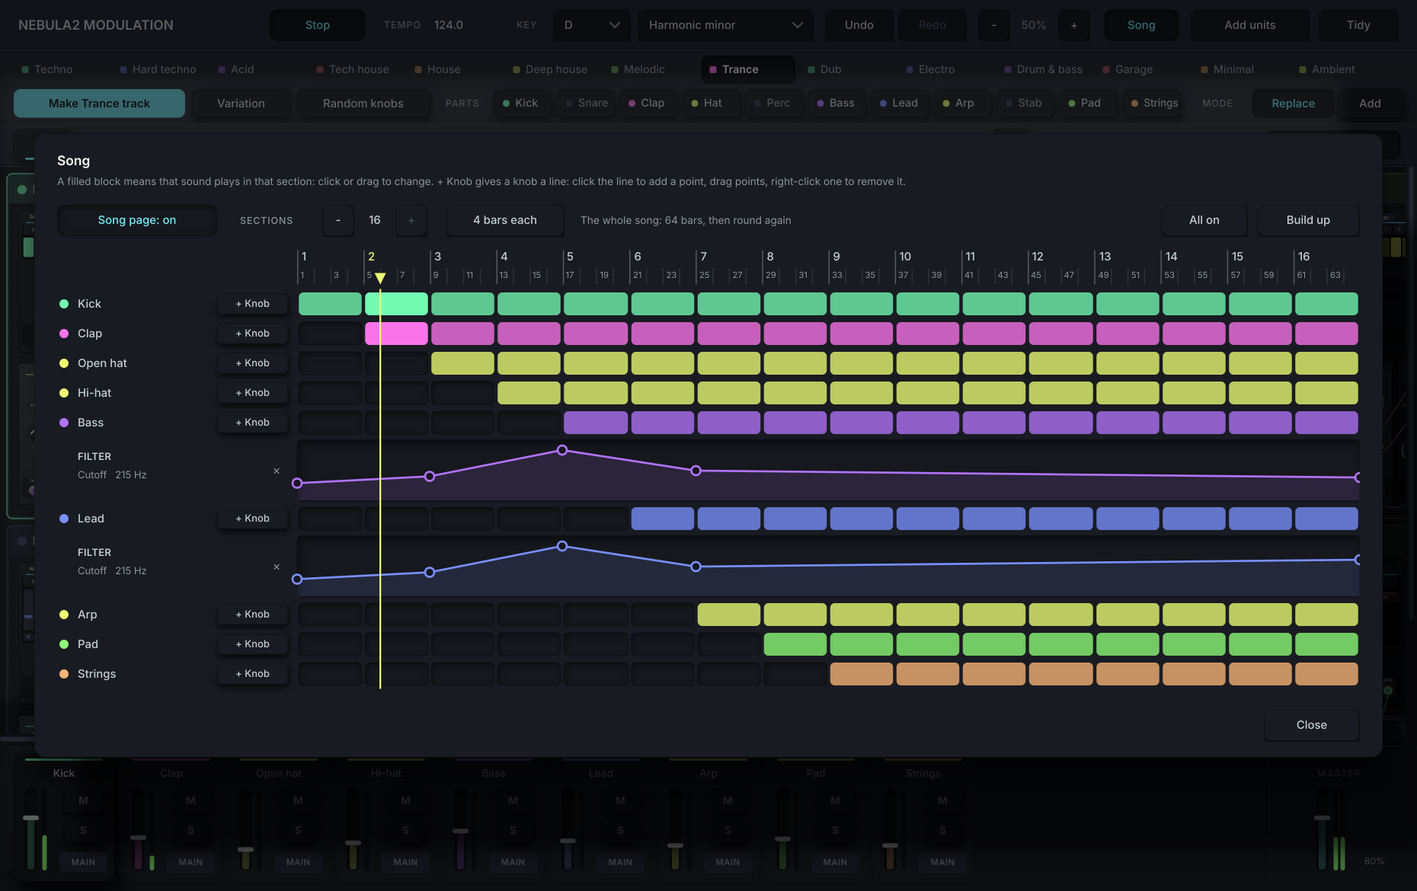
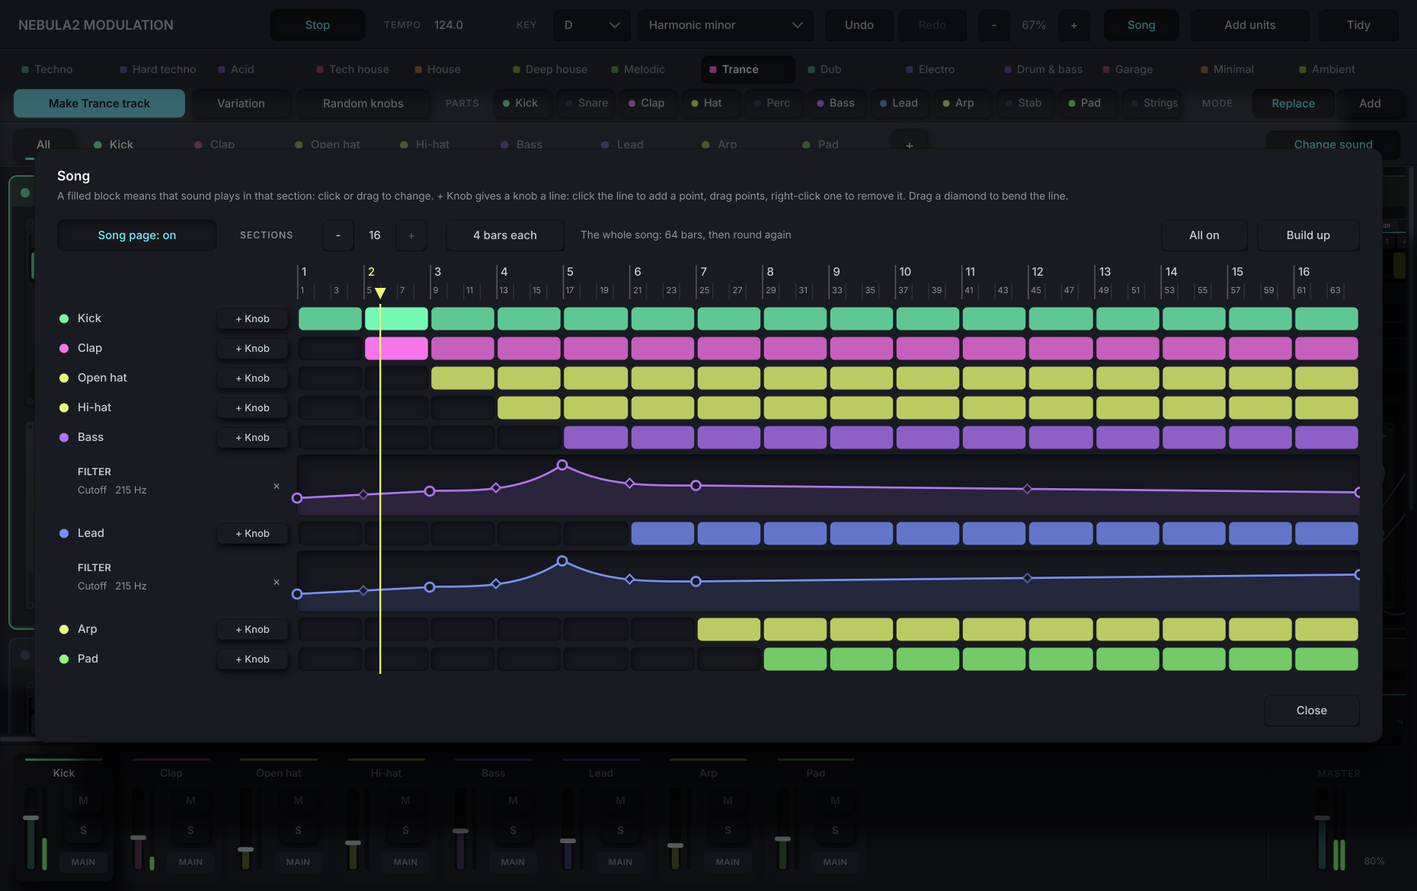
Timeline knob lines can be bent: drag the diamond in the middle of a stretch
Claude-Session: https://claude.ai/code/session_01LCqu45gMnL2gNytcjbEKwn

diff --git a/Source/PluginEditor.cpp b/Source/PluginEditor.cpp
@@ -2754,6 +2754,38 @@ int SongPanel::pointNear (int tab, int lane, juce::Point<int> p) const
     }
     return best;
 }
+// Half way along a stretch, on the line itself: the handle that bends it. None where the stretch is too short
+// to grab or is flat (a flat line has nothing to bend).
+juce::Point<int> SongPanel::bendHandle (int tab, int lane, int k) const
+{
+    auto& a = *proc.rack.boards[(size_t) tab]->autos[(size_t) lane];
+    if (k < 0 || k + 1 >= a.count.load()) return { -1000, -1000 };
+    const float b0 = a.bar[(size_t) k].load(), b1 = a.bar[(size_t) (k + 1)].load(), v0 = a.val[(size_t) k].load(), v1 = a.val[(size_t) (k + 1)].load();
+    if ((b1 - b0) * barW() < 28.0f || std::abs (v1 - v0) < 0.02f) return { -1000, -1000 };
+    return pointAt (tab, lane, 0.5f * (b0 + b1), v0 + (v1 - v0) * AutoLane::shape (0.5f, a.curve[(size_t) k].load()));
+}
+int SongPanel::bendNear (int tab, int lane, juce::Point<int> p) const
+{
+    if (tab < 0 || tab >= (int) proc.rack.boards.size() || lane < 0 || lane >= (int) proc.rack.boards[(size_t) tab]->autos.size()) return -1;
+    const int n = proc.rack.boards[(size_t) tab]->autos[(size_t) lane]->count.load();
+    for (int k = 0; k + 1 < n; ++k) if (bendHandle (tab, lane, k).getDistanceFrom (p) <= 8) return k;
+    return -1;
+}
+// Double-click a bend handle: that stretch goes straight again
+void SongPanel::mouseDoubleClick (const juce::MouseEvent& e)
+{
+    for (int t = 0; t < (int) proc.rack.boards.size(); ++t)
+        for (int l = 0; l < (int) proc.rack.boards[(size_t) t]->autos.size(); ++l)
+        {
+            const int k = bendNear (t, l, e.getPosition());
+            if (k < 0) continue;
+            proc.history.before (*proc.rack.boards[(size_t) t]);
+            proc.rack.boards[(size_t) t]->autos[(size_t) l]->bend (k, 0.0f);
+            proc.history.discardIfUnchanged();
+            repaint();
+            return;
+        }
+}
 bool SongPanel::hit (juce::Point<int> p, int& tab, int& section) const
 {
     if (! rows().contains (p)) return false;
@@ -2847,6 +2879,8 @@ void SongPanel::mouseDown (const juce::MouseEvent& e)
                 repaint();
                 return;
             }
+            // the handle in the middle of a stretch bends it
+            if (point < 0) { const int k = bendNear (t, l, p); if (k >= 0) { drag = { 3, t, l, k }; repaint(); return; } }
             if (point < 0)
             {
                 // a click on the line's row puts a new point there, already in the hand
@@ -2873,6 +2907,20 @@ void SongPanel::mouseDrag (const juce::MouseEvent& e)
         int t = 0, s = 0;
         if (hit (e.getPosition(), t, s)) setCell (t, s, paintTo);
     }
+    if (drag.kind == 3 && drag.tab < (int) proc.rack.boards.size() && drag.lane < (int) proc.rack.boards[(size_t) drag.tab]->autos.size())
+    {
+        // Bending: the middle of the stretch follows the mouse up and down
+        auto& a = *proc.rack.boards[(size_t) drag.tab]->autos[(size_t) drag.lane];
+        if (drag.point + 1 < a.count.load())
+        {
+            const auto area = laneArea (drag.tab, drag.lane);
+            const float v0 = a.val[(size_t) drag.point].load(), v1 = a.val[(size_t) (drag.point + 1)].load();
+            const float value = (float) (area.getBottom() - 6 - e.y) / (float) (laneH - 12);
+            if (std::abs (v1 - v0) > 0.0001f) a.bend (drag.point, AutoLane::curveFor ((value - v0) / (v1 - v0)));
+        }
+        repaint();
+        return;
+    }
     if (drag.kind != 2 || drag.tab >= (int) proc.rack.boards.size() || drag.lane >= (int) proc.rack.boards[(size_t) drag.tab]->autos.size()) return;
     // Dragging a point: sideways moves it through the song (to the nearest quarter bar; Shift for anywhere),
     // up and down moves the knob
@@ -2884,7 +2932,7 @@ void SongPanel::mouseDrag (const juce::MouseEvent& e)
 }
 void SongPanel::mouseUp (const juce::MouseEvent&)
 {
-    if (drag.kind == 2) proc.history.discardIfUnchanged();
+    if (drag.kind == 2 || drag.kind == 3) proc.history.discardIfUnchanged();
     drag = {};
 }
 void SongPanel::mouseMove (const juce::MouseEvent& e) { if (rows().contains (e.getPosition())) repaint (rows()); }
@@ -2912,8 +2960,8 @@ void SongPanel::paint (juce::Graphics& g)
     g.drawText ("Song", c.getX() + 20, c.getY() + 14, 300, 20, juce::Justification::centredLeft, false);
     g.setFont (helpFont());
     g.setColour (n7);
-    g.drawText (on ? "A filled block means that sound plays in that section: click or drag to change. + Knob gives a knob a line: click the line to add a point, drag points, right-click one to remove it."
-                   : "Sections are off: every sound plays all the time. + Knob gives a knob a line through the song: click the line to add a point, drag points, right-click one to remove it.",
+    g.drawText (on ? "A filled block means that sound plays in that section: click or drag to change. + Knob gives a knob a line: click the line to add a point, drag points, right-click one to remove it. Drag a diamond to bend the line."
+                   : "Sections are off: every sound plays all the time. + Knob gives a knob a line through the song: click the line to add a point, drag points, right-click one to remove it. Drag a diamond to bend the line.",
                 c.getX() + 20, c.getY() + 34, c.getWidth() - 40, 16, juce::Justification::centredLeft, true);
     caption (g, "Sections", { c.getX() + 180, c.getY() + 62, 68, 28 });
     g.setFont (controlFont());
@@ -3008,7 +3056,22 @@ void SongPanel::paint (juce::Graphics& g)
                 if (n <= 0) continue;
                 juce::Path line;
                 line.startNewSubPath ((float) area.getX(), (float) pointAt (t, l, 0.0f, a.val[0].load()).y);
-                for (int k = 0; k < n; ++k) line.lineTo (pointAt (t, l, a.bar[(size_t) k].load(), a.val[(size_t) k].load()).toFloat());
+                for (int k = 0; k < n; ++k)
+                {
+                    // a bent stretch is drawn as the curve the knob will really follow
+                    if (k > 0 && a.curve[(size_t) (k - 1)].load() != 0.0f)
+                    {
+                        const float b0 = a.bar[(size_t) (k - 1)].load(), b1 = a.bar[(size_t) k].load(), v0 = a.val[(size_t) (k - 1)].load(), v1 = a.val[(size_t) k].load(), cv = a.curve[(size_t) (k - 1)].load();
+                        const int steps = juce::jlimit (8, 96, juce::roundToInt ((b1 - b0) * barW() / 2.0f));
+                        // (worked out to a fraction of a pixel, so the curve is smooth rather than stepped)
+                        for (int s = 1; s < steps; ++s)
+                        {
+                            const float u = (float) s / (float) steps;
+                            line.lineTo ((float) area.getX() + (b0 + (b1 - b0) * u) * barW(), (float) area.getBottom() - 6.0f - juce::jlimit (0.0f, 1.0f, v0 + (v1 - v0) * AutoLane::shape (u, cv)) * (float) (laneH - 12));
+                        }
+                    }
+                    line.lineTo (pointAt (t, l, a.bar[(size_t) k].load(), a.val[(size_t) k].load()).toFloat());
+                }
                 line.lineTo ((float) area.getRight(), (float) pointAt (t, l, 0.0f, a.val[(size_t) (n - 1)].load()).y);
                 juce::Path fill (line);
                 fill.lineTo ((float) area.getRight(), (float) area.getBottom() - 3.0f); fill.lineTo ((float) area.getX(), (float) area.getBottom() - 3.0f); fill.closeSubPath();
@@ -3017,6 +3080,21 @@ void SongPanel::paint (juce::Graphics& g)
                 g.setColour (col);
                 g.strokePath (line, juce::PathStrokeType (1.8f, juce::PathStrokeType::curved, juce::PathStrokeType::rounded));
                 const int closest = area.expanded (4, 0).contains (mouse) ? pointNear (t, l, mouse) : -1;
+                // bend handles: a small diamond half way along each stretch
+                {
+                    const int over = closest < 0 && area.expanded (4, 0).contains (mouse) ? bendNear (t, l, mouse) : -1;
+                    for (int k = 0; k + 1 < n; ++k)
+                    {
+                        const auto h = bendHandle (t, l, k).toFloat();
+                        if (h.x < -500.0f) continue;
+                        const bool hot = k == over || (drag.kind == 3 && drag.tab == t && drag.lane == l && drag.point == k);
+                        const float r = hot ? 5.5f : 4.0f;
+                        juce::Path d; d.startNewSubPath (h.x, h.y - r); d.lineTo (h.x + r, h.y); d.lineTo (h.x, h.y + r); d.lineTo (h.x - r, h.y); d.closeSubPath();
+                        g.setColour (sunkenLo); g.fillPath (d);
+                        g.setColour (hot ? juce::Colours::white : col.withAlpha (a.curve[(size_t) k].load() != 0.0f ? 1.0f : 0.55f));
+                        g.strokePath (d, juce::PathStrokeType (1.4f));
+                    }
+                }
                 for (int k = 0; k < n; ++k)
                 {
                     const auto pt = pointAt (t, l, a.bar[(size_t) k].load(), a.val[(size_t) k].load()).toFloat();

diff --git a/Source/Engine.h b/Source/Engine.h
@@ -277,7 +277,7 @@ struct Module
 struct Cable { int src, srcPort, dst, dstPort; };
 
 // A knob's movement drawn on the timeline: points of (where in the song, in bars from the start; knob position
-// 0..1) joined by straight lines. Before the first point and after the last the knob holds that point's position.
+// 0..1) joined by lines. Each stretch between two points is straight unless it has been bent (see curve). Before the first point and after the last the knob holds that point's position.
 // The points are plain numbers the audio thread can read at any moment, so dragging one never makes audio wait.
 constexpr int kAutoPoints = 64;
 struct AutoLane
@@ -285,6 +285,23 @@ struct AutoLane
     int uid = 0, param = 0;                       // which unit on the board, and which of its knobs
     std::atomic<int> count { 0 };
     std::array<std::atomic<float>, kAutoPoints> bar {}, val {};
+    // How the stretch that starts at each point is bent, -1..1: 0 is straight, above 0 moves most of the way early
+    // then eases in, below 0 holds back then moves late. Old projects have none, so they play exactly as before.
+    std::array<std::atomic<float>, kAutoPoints> curve {};
+    static float shape (float t, float c)
+    {
+        if (c == 0.0f) return t;
+        const float k = 1.0f + 4.0f * std::min (1.0f, std::abs (c));
+        return c > 0.0f ? 1.0f - std::pow (1.0f - t, k) : std::pow (t, k);
+    }
+    // The bend that puts the middle of a stretch this far (0..1) from its first point's level to its second's
+    static float curveFor (float half)
+    {
+        const float f = std::min (0.96f, std::max (0.04f, half));
+        const float c = f >= 0.5f ? (std::log2 (1.0f / (1.0f - f)) - 1.0f) / 4.0f : -(std::log2 (1.0f / f) - 1.0f) / 4.0f;
+        return std::abs (c) < 0.02f ? 0.0f : std::min (1.0f, std::max (-1.0f, c));
+    }
+    void bend (int i, float c) { if (i >= 0 && i < count.load()) curve[(size_t) i].store (std::min (1.0f, std::max (-1.0f, c))); }
     float at (double barPos) const
     {
         const int n = std::min (kAutoPoints, count.load (std::memory_order_relaxed));
@@ -294,7 +311,7 @@ struct AutoLane
         for (int i = 1; i < n; ++i)
         {
             const float b1 = bar[(size_t) i].load (std::memory_order_relaxed), v1 = val[(size_t) i].load (std::memory_order_relaxed);
-            if (barPos < b1) return b1 > b0 ? v0 + (v1 - v0) * (float) ((barPos - b0) / (b1 - b0)) : v1;
+            if (barPos < b1) return b1 > b0 ? v0 + (v1 - v0) * shape ((float) ((barPos - b0) / (b1 - b0)), curve[(size_t) (i - 1)].load (std::memory_order_relaxed)) : v1;
             b0 = b1; v0 = v1;
         }
         return v0;
@@ -305,8 +322,9 @@ struct AutoLane
         const int n = count.load();
         if (n >= kAutoPoints) return -1;
         int i = n;
-        while (i > 0 && bar[(size_t) (i - 1)].load() > atBar) { bar[(size_t) i].store (bar[(size_t) (i - 1)].load()); val[(size_t) i].store (val[(size_t) (i - 1)].load()); --i; }
+        while (i > 0 && bar[(size_t) (i - 1)].load() > atBar) { bar[(size_t) i].store (bar[(size_t) (i - 1)].load()); val[(size_t) i].store (val[(size_t) (i - 1)].load()); curve[(size_t) i].store (curve[(size_t) (i - 1)].load()); --i; }
         bar[(size_t) i].store (atBar); val[(size_t) i].store (std::min (1.0f, std::max (0.0f, v)));
+        curve[(size_t) i].store (0.0f);          // a new point starts a straight stretch
         count.store (n + 1);
         return i;
     }
@@ -314,7 +332,7 @@ struct AutoLane
     {
         const int n = count.load();
         if (i < 0 || i >= n) return;
-        for (int k = i; k + 1 < n; ++k) { bar[(size_t) k].store (bar[(size_t) (k + 1)].load()); val[(size_t) k].store (val[(size_t) (k + 1)].load()); }
+        for (int k = i; k + 1 < n; ++k) { bar[(size_t) k].store (bar[(size_t) (k + 1)].load()); val[(size_t) k].store (val[(size_t) (k + 1)].load()); curve[(size_t) k].store (curve[(size_t) (k + 1)].load()); }
         count.store (n - 1);
     }
     // Moves a point. It can't pass its neighbours, so the line never doubles back.
@@ -1032,6 +1050,15 @@ struct Rack
                     o << "au " << a->uid << ' ' << m->info->params[(size_t) a->param].id;
                     for (int k = 0; k < std::min (kAutoPoints, a->count.load()); ++k) o << ' ' << a->bar[(size_t) k].load() << ' ' << a->val[(size_t) k].load();
                     o << '\n';
+                    // bends go on a line of their own, and only when there are some: older versions skip it
+                    bool bent = false;
+                    for (int k = 0; k < std::min (kAutoPoints, a->count.load()); ++k) bent = bent || a->curve[(size_t) k].load() != 0.0f;
+                    if (bent)
+                    {
+                        o << "ac " << a->uid << ' ' << m->info->params[(size_t) a->param].id;
+                        for (int k = 0; k < std::min (kAutoPoints, a->count.load()); ++k) o << ' ' << a->curve[(size_t) k].load();
+                        o << '\n';
+                    }
                 }
         for (auto& c : b.cables)
         {
@@ -1179,6 +1206,16 @@ struct Rack
                         while (ls >> at >> v) a->add (std::max (0.0f, at), v);
                         if (a->count.load() > 0) b->autos.push_back (std::move (a));
                     }
+                }
+            }
+            else if (tag == "ac")
+            {
+                int uid = 0; std::string id; ls >> uid >> id;
+                if (auto* m = b->find (uid))
+                {
+                    const int lane = b->autoIndex (uid, m->paramIndex (id));
+                    float c = 0; int k = 0;
+                    if (lane >= 0) while (ls >> c && k < kAutoPoints) b->autos[(size_t) lane]->bend (k++, c);
                 }
             }
             else if (tag == "cable")

diff --git a/tests/EngineTest.cpp b/tests/EngineTest.cpp
@@ -1819,6 +1819,61 @@ int main()
         CHECK (lay::height (*t) == lay::panelH, "every panel is the same height");
     }
 
+    // Curves on timeline knob lines: a stretch can be bent, and a straight one is exactly as it was
+    {
+        AutoLane a;
+        a.add (0.0f, 0.2f); a.add (4.0f, 1.0f); a.add (8.0f, 0.0f);
+        CHECK (std::abs (a.at (2.0) - 0.6f) < 1.0e-6f && std::abs (a.at (1.0) - 0.4f) < 1.0e-6f, "with no bend the line is straight, as before");
+        a.bend (0, 0.5f);
+        CHECK (a.at (2.0) > 0.75f && a.at (2.0) < 1.0f, "bent up, the knob has gone most of the way by half time");
+        CHECK (std::abs (a.at (0.0) - 0.2f) < 1.0e-6f && std::abs (a.at (4.0) - 1.0f) < 1.0e-5f, "and it still starts and ends on its points");
+        bool rising = true; for (double b = 0.1; b < 4.0; b += 0.1) rising = rising && a.at (b) >= a.at (b - 0.1) - 1.0e-6f;
+        CHECK (rising, "a bent stretch never doubles back");
+        CHECK (std::abs (a.at (6.0) - 0.5f) < 1.0e-6f, "bending one stretch leaves the next one straight");
+        a.bend (0, -0.5f);
+        CHECK (a.at (2.0) < 0.4f && a.at (2.0) > 0.2f, "bent the other way it holds back, then moves late");
+        // the bend that puts the middle where the mouse is
+        for (float half : { 0.1f, 0.3f, 0.7f, 0.9f })
+            CHECK (std::abs (AutoLane::shape (0.5f, AutoLane::curveFor (half)) - half) < 0.01f, "the middle of the stretch follows the handle");
+        CHECK (AutoLane::curveFor (0.5f) == 0.0f && AutoLane::curveFor (0.505f) == 0.0f, "near the middle it snaps back to straight");
+        CHECK (std::abs (AutoLane::curveFor (5.0f)) <= 1.0f && std::abs (AutoLane::curveFor (-5.0f)) <= 1.0f, "dragging far past the line can't over-bend it");
+        // a point added inside a bent stretch, and one removed, keep the bends with the right stretches
+        a.bend (0, 0.5f); a.bend (1, -0.3f);
+        a.add (6.0f, 0.5f);
+        CHECK (a.curve[0].load() == 0.5f && a.curve[1].load() == -0.3f && a.curve[2].load() == 0.0f, "a new point starts a straight stretch and the others keep their bends");
+        a.remove (2);
+        CHECK (a.count.load() == 3 && a.curve[0].load() == 0.5f && a.curve[1].load() == -0.3f, "removing it puts things back");
+        // saved with the project, undoable, and old saves are untouched
+        Rack rack; rack.prepare (48000);
+        rack.addBoard (makeBoard ("bass", 48000));
+        auto& b = *rack.boards[0];
+        auto* filt = firstOf (b, "filter");
+        const int lane = rack.addAuto (b, filt->uid, filt->paramIndex ("cutoff"));
+        CHECK (lane >= 0, "a knob can be given a line");
+        b.autos[(size_t) lane]->add (4.0f, 0.9f);
+        const auto straight = rack.save();
+        CHECK (straight.find ("\nac ") == std::string::npos, "a project with no bends saves exactly as it did before");
+        History history (rack);
+        history.before (b);
+        b.autos[(size_t) lane]->bend (0, 0.6f);
+        const auto text = rack.save();
+        CHECK (text.find ("\nac ") != std::string::npos, "bends are written to the save");
+        Rack loaded; loaded.prepare (48000);
+        CHECK (loaded.load (text) && loaded.boards[0]->autos.size() == 1 && std::abs (loaded.boards[0]->autos[0]->curve[0].load() - 0.6f) < 1.0e-5f && loaded.save() == text, "and come back with the project");
+        CHECK (history.undo() && rack.boards[0]->autos[0]->curve[0].load() == 0.0f && rack.save() == straight, "Undo takes a bend away");
+        CHECK (history.redo() && std::abs (rack.boards[0]->autos[0]->curve[0].load() - 0.6f) < 1.0e-5f, "and Redo puts it back");
+        // heard: the filter is further open half way through a stretch that is bent up
+        auto cutoffAt = [&] (float bendAmount)
+        {
+            Rack r2; r2.prepare (48000); r2.load (straight);
+            r2.boards[0]->autos[0]->bend (0, bendAmount);
+            render (r2, 2.0);                               // play to the middle of the four-bar stretch
+            auto* f2 = firstOf (*r2.boards[0], "filter");
+            return f2->P (f2->paramIndex ("cutoff"));
+        };
+        CHECK (cutoffAt (0.8f) > cutoffAt (0.0f) && cutoffAt (0.0f) > cutoffAt (-0.8f), "the knob itself follows the curve while the song plays");
+    }
+
     if (failures == 0) std::printf ("All passed\n");
     return failures == 0 ? 0 : 1;
 }

diff --git a/Source/PluginEditor.h b/Source/PluginEditor.h
@@ -422,7 +422,10 @@ private:
     bool paintTo = false; int shownSection = -2;
     float shownBar = -2.0f;
     int scroll = 0;
-    struct Drag { int kind = 0, tab = 0, lane = 0, point = 0; } drag;      // kind: 0 nothing, 1 painting squares, 2 a point
+    struct Drag { int kind = 0, tab = 0, lane = 0, point = 0; } drag;      // kind: 0 nothing, 1 painting squares, 2 a point, 3 bending a stretch
+    juce::Point<int> bendHandle (int tab, int lane, int stretch) const;    // the small handle in the middle of a stretch: drag it to bend the line
+    int bendNear (int tab, int lane, juce::Point<int>) const;
+    void mouseDoubleClick (const juce::MouseEvent&) override;
     static constexpr int rowH = 26, laneH = 58, labelW = 210;
 };
 } // namespace n2m

diff --git a/tests/Snapshot.cpp b/tests/Snapshot.cpp
@@ -193,7 +193,7 @@ int main (int argc, char** argv)
                 if (std::string (m->info->type) == "filter" && (b->type == "bass" || b->type == "lead"))
                 {
                     const int lane = e->songPanel.addLane (at, m->uid, m->paramIndex ("cutoff"));
-                    if (lane >= 0) { auto& a = *b->autos[(size_t) lane]; a.move (0, 0.0f, 0.25f); a.add (8.0f, 0.4f); a.add (16.0f, 0.9f); a.add (24.0f, 0.5f); }
+                    if (lane >= 0) { auto& a = *b->autos[(size_t) lane]; a.move (0, 0.0f, 0.25f); a.add (8.0f, 0.4f); a.add (16.0f, 0.9f); a.add (24.0f, 0.5f); a.bend (1, -0.6f); a.bend (2, 0.6f); }      // two stretches bent, one each way
                 }
             ++at;
         }

diff --git a/CLAUDE.md b/CLAUDE.md
@@ -57,7 +57,7 @@ Rules that tests hold in place:
 - Styles: every preset and idea a style names must exist. The same seed makes the same track. Make track, Variation and Random knobs each call `history.beforeAll()` first (one Undo step for the whole project). Random knobs never touches tuning, levels, lengths or switches (`knobCanRandomise`).
 - Panels: every unit is `lay::panelH` high; `lay::geo (info)` says where its knobs and jacks go and `lay::fits (info)` must hold for every type, the plugin slot and sample player included. A unit with `perRow` keeps its knobs in groups of that many.
 - The All view: `proc.showAll`. `selectTab (i)` shows one sound alone; `showAllSounds()` shows them all; `reshow (i)` redraws whichever is up (use it after a change). `selectTab (-1)` / `reshow (-1)` lets go of the boards before the rack changes under them.
-- Timeline knob lines: `Board::autos` (`AutoLane`: unit id, knob, up to 64 points of bar and knob position). Points are atomics, so dragging one never takes the lock; adding or removing a line does (`Rack::addAuto` / `removeAuto`). Knobs are set on a fixed grid of song position (1/32 of a step) with chunks cut at its edges, so it never depends on block size. The song is `Rack::songBars()` long and goes round. Saved as `au` lines. A new line is flat at the knob's own position and changes nothing.
+- Timeline knob lines: `Board::autos` (`AutoLane`: unit id, knob, up to 64 points of bar and knob position). Points are atomics, so dragging one never takes the lock; adding or removing a line does (`Rack::addAuto` / `removeAuto`). Knobs are set on a fixed grid of song position (1/32 of a step) with chunks cut at its edges, so it never depends on block size. The song is `Rack::songBars()` long and goes round. Saved as `au` lines. A new line is flat at the knob's own position and changes nothing. Each stretch can be bent (`AutoLane::curve`, `shape`, `curveFor`); 0 is straight and must stay exactly the old straight line.
 - A knob at 0% does nothing at all (Drive at 0% is identical to no Drive). Every effect at Mix 0% passes its input through exactly, and gives silence for silence.
 - Anything rhythmic is stored as a note length and worked out from the tempo, never milliseconds.
 - Saves are text, named by id. Unknown modules and knobs are skipped on load, so never rename an id.
@@ -110,10 +110,10 @@ libfreetype-dev libfontconfig1-dev libgl1-mesa-dev`.
 Push to main, then start the release through the API (pushing tags doesn't work through the proxy):
 
 ```
-gh api -X POST repos/Joenebula/Nebula2-Modulation/actions/workflows/build.yml/dispatches -f ref=main -f 'inputs[version]=v0.1.23'
+gh api -X POST repos/Joenebula/Nebula2-Modulation/actions/workflows/build.yml/dispatches -f ref=main -f 'inputs[version]=v0.1.24'
 ```
 
-The latest release is **v0.1.22**: the first with the Modurand rework (styles, All view, rack panels, timeline).
+The latest release is **v0.1.23**. v0.1.22 was the first with the Modurand rework (styles, All view, rack panels, timeline).
 Joe asked for that release on 27 Nov 2026, after it had built on Windows, Mac and Linux and passed every test.
 
 Windows: don't name a variable `near`, `far` or `small`. The Windows headers define them and the build breaks.

diff --git a/docs/BUILD-PLAN.md b/docs/BUILD-PLAN.md
@@ -176,6 +176,7 @@ Joe sent a video of Modurand: "This is where we need to be." Of the five differe
 - [x] **Everything on one board.** An All tab, first in the tab row, shows every sound in its own frame on one board, fitted to the window. Zoom 20% to 150%; click the zoom figure to fit again. Each frame is an ordinary board, so cables, knobs and Undo work as on a tab. A new project opens on it; an older project opens on its tab as it was saved
 - [x] **Modules look like hardware.** Every unit is a rack panel of the same height: knobs as big as the room allows, a screw in each corner, the name printed on the plate over a line in the colour of its kind, a black screen behind patterns and chords, jacks in a strip along the bottom with outputs on a light pad. Tidy lines panels up side by side in two rows. A test checks every unit fits its panel
 - [x] **A timeline with knob movement.** The Song page is now a timeline: bars along the top, a row per sound, the section blocks as before, a playhead. + Knob (or right-click a knob) gives a knob a line; click to add points, drag them, right-click to remove. Knobs follow their lines as the song plays and go round with it. Saved, undoable, and the same at any block size
+- [x] **Curves on knob lines** (v0.1.23; Joe: "can the arranger automation have curves?", and he chose bending each stretch over one Smooth switch). A small diamond sits half way along each stretch: drag it up or down and the middle of the stretch follows the mouse, so the knob moves early and eases in, or holds back and moves late. Double-click the diamond to go straight again. Saved on an `ac` line, written only when there is a bend, so older projects and older versions are untouched
 - [ ] **Joe to test in Cubase**: all four. None of it can be heard or clicked here beyond the tests and snapshots
 - [ ] A style doesn't set the tempo (Cubase owns it). Drum & bass at 124 isn't drum & bass until Cubase is at 174
 - [ ] Old projects keep their unit positions, which were laid out for the bigger panels: press Tidy
